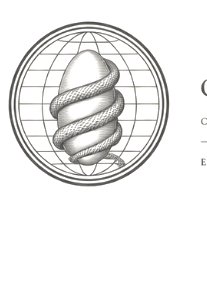
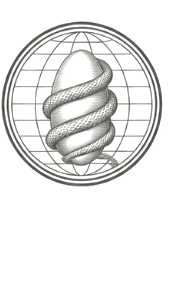
fix: seal crop right-edge measured, not guessed
Wrote a column-histogram of dark pixels in the source PNG. Ground
truth: seal disc occupies x [80..237], cream gutter sits at x [240..265]
with zero dark pixels, then the wordmark 'O' begins at x=270.

Previous crop right edge x=275 was 5px INSIDE the letter 'O', leaking
visible 'O', 'CAP', 'EST.' fragments. New crop (75, 490, 245, 775) =
170x285 — right edge in the middle of the empty gutter, no chance of
any wordmark pixels leaking in. Verified by re-running the histogram.
Cache-bust v=5.

Changed region(s): [[0.0, 0.0561, 1.0, 0.6737], [0.9706, 0.5333, 1.0, 0.5895], [0.9706, 0.4772, 1.0, 0.5053]]

diff --git a/web/index.html b/web/index.html
@@ -6,20 +6,20 @@
 <meta name="viewport" content="width=device-width,initial-scale=1">
 <meta name="theme-color" content="#f6f1e3">
 <meta name="description" content="An empirical notary. Drop a file in your browser; receive a Bitcoin-anchored proof it existed by the recorded block. The file never leaves your machine.">
-<link rel="icon" type="image/png" href="/seal.png?v=4">
+<link rel="icon" type="image/png" href="/seal.png?v=5">
 <meta property="og:title" content="Orphograph — Empirical Notary">
 <meta property="og:description" content="Bitcoin-anchored proof a file existed. The file does not leave your browser.">
 <meta property="og:image" content="/seal.png">
 <meta property="og:type" content="website">
 <meta property="og:url" content="https://orphograph.com/">
 <meta name="twitter:card" content="summary_large_image">
-<link rel="stylesheet" href="/index.css?v=4">
+<link rel="stylesheet" href="/index.css?v=5">
 </head>
 <body>
 
 <header class="nav">
   <div class="wrap row">
-    <a href="/" class="brand"><img src="/seal.png?v=4" alt=""> Orphograph</a>
+    <a href="/" class="brand"><img src="/seal.png?v=5" alt=""> Orphograph</a>
     <nav>
       <a href="/learn.html">Method</a>
       <a href="#tiers">Pricing</a>
@@ -34,7 +34,7 @@
 <section class="masthead">
   <div class="wrap">
     <div class="lockup">
-      <img class="lockup-seal" src="/seal.png?v=4" alt="Orphograph seal">
+      <img class="lockup-seal" src="/seal.png?v=5" alt="Orphograph seal">
       <div class="lockup-text">
         <div class="lockup-wordmark">Orphograph</div>
         <div class="lockup-rule"></div>
